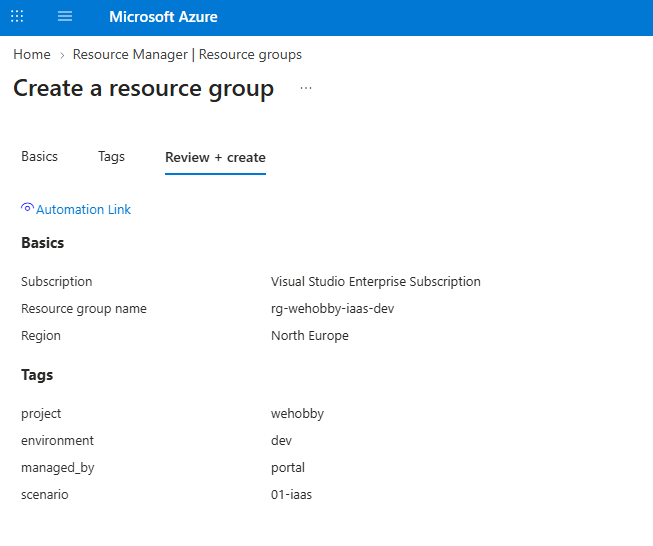
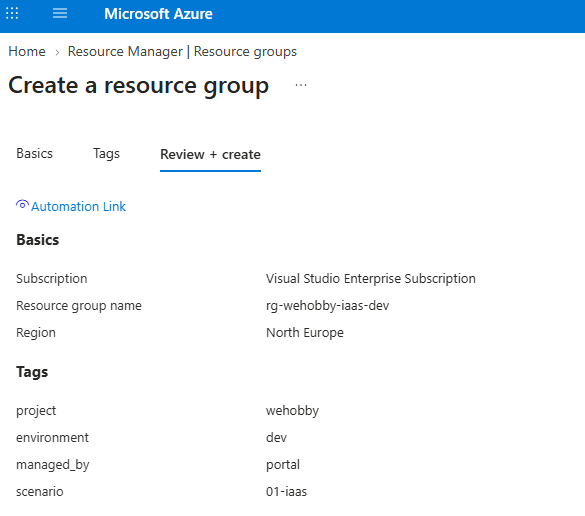
docs: record scenario 01 portal steps 1 to 5

diff --git a/docs/scenarios/01-iaas/portal-guide.md b/docs/scenarios/01-iaas/portal-guide.md
@@ -13,7 +13,7 @@ Step by step guide for building scenario 01 manually in the Azure portal. Settin
 2. **Basics**
    - Subscription: _your subscription_
    - Resource group: `rg-wehobby-iaas-dev`
-   - Region: West Europe
+   - Region: North Europe
 3. **Tags**
 
    | Name | Value |
@@ -34,21 +34,24 @@ Step by step guide for building scenario 01 manually in the Azure portal. Settin
 1. Open `rg-wehobby-iaas-dev` → **Cost Management** → **Budgets** → **Add**
 2. **Create a budget**
    - Name: `budget-wehobby-iaas-dev`
-   - Reset period: Monthly
+   - Reset period: Billing Month
    - Amount: _€_
 3. **Set alerts**
-   - Actual: 50%, 80%, 100%
+   - Actual: 50%, 80%
    - Forecasted: 100%
-   - Recipients: _your email (don't put it in the screenshot)_
+   - Recipients: _your email 
 4. **Create**
 
-<!-- ![Budget amount](images/02-budget-amount.png) -->
-<!-- ![Budget alerts](images/02-budget-alerts.png) -->
+![Creating Budget alert](images/creatingbudget.png)
 
 > **Good to know:** a budget only alerts, it never stops spending. Cost data can lag by several hours.
 
 > **My notes:**
->
+>As I am using a  Visual Studio subscription, it is important to use Billing Month instead of Monthly as the invoice period may be different.
+
+Documentation related:
+[Use cost alerts to monitor usage and spending](https://learn.microsoft.com/en-us/azure/cost-management-billing/costs/cost-mgt-alerts-monitor-usage-spending)
+[Tutorial: Create and manage budgets](https://learn.microsoft.com/en-us/azure/cost-management-billing/costs/tutorial-acm-create-budgets?tabs=psbudget)
 
 ---
 
@@ -58,22 +61,20 @@ Step by step guide for building scenario 01 manually in the Azure portal. Settin
 2. **Basics**
    - Resource group: `rg-wehobby-iaas-dev`
    - Name: `vnet-wehobby-iaas-dev`
-   - Region: West Europe
+   - Region: North Europe
 3. **Security**: leave Bastion, Firewall and DDoS Protection off (cost)
 4. **IP addresses**
    - Address space: `10.10.0.0/16`
    - Edit the default subnet:
      - Name: `snet-app`
      - Range: `10.10.1.0/24`
-     - Service endpoints: `Microsoft.Storage`
+     - Service endpoints: `Microsoft.Storage.Global`
 5. **Tags**: same four tags as step 1
 6. **Review + create** → **Create**
 
-<!-- ![VNet basics](images/03-vnet-basics.png) -->
-<!-- ![Subnet with service endpoint](images/03-vnet-subnet.png) -->
+![VNet basics](images/creatingvnet.png)
+![Subnet with service endpoint](images/addingserviceendpoint.png)
 
-> **My notes:**
->
 
 ---
 
@@ -82,8 +83,11 @@ Step by step guide for building scenario 01 manually in the Azure portal. Settin
 1. Search **Network security groups** → **Create**
    - Resource group: `rg-wehobby-iaas-dev`
    - Name: `nsg-wehobby-iaas-dev`
-   - Region: West Europe
+   - Region: North Europe
    - Tags: same four tags
+
+![Creating NSG](images/creatingnsg.png)
+
 2. Open the NSG → **Inbound security rules** → **Add**
 
    | Name | Source | Destination ports | Protocol | Action | Priority |
@@ -91,13 +95,14 @@ Step by step guide for building scenario 01 manually in the Azure portal. Settin
    | Allow-HTTP-HTTPS | Service Tag: Internet | 80, 443 | TCP | Allow | 100 |
    | Allow-SSH-MyIP | IP addresses: _my public IP_ | 22 | TCP | Allow | 110 |
 
+
+   ![Creating Inbound rule Allow HTTP](images/nsgallowhttp.png)
+
+   ![Creating Inbound rule Allow SSH](images/nsgallowssh.png)
+
 3. **Subnets** → **Associate** → `vnet-wehobby-iaas-dev` / `snet-app`
 
-<!-- ![Inbound rules](images/04-nsg-rules.png) -->
-<!-- ![Subnet association](images/04-nsg-subnet.png) -->
-
-> **My notes:**
->
+![Associating subnet](images/associatesubnet.png)
 
 ---
 
@@ -107,12 +112,12 @@ Step by step guide for building scenario 01 manually in the Azure portal. Settin
 2. **Basics**
    - Resource group: `rg-wehobby-iaas-dev`
    - Name: `stwehobbyiaasdev`
-   - Region: West Europe
+   - Region: North Europe
    - Performance: Standard
    - Redundancy: LRS
 3. **Advanced**
    - Allow enabling anonymous access on containers: off
-   - Enable storage account key access: _on / off (decision)_
+   - Enable storage account key access: on
    - Minimum TLS version: 1.2
    - Access tier: Hot
 4. **Networking**
@@ -121,16 +126,17 @@ Step by step guide for building scenario 01 manually in the Azure portal. Settin
    - Add your client IP address
 5. **Tags**: same four tags
 6. **Review + create** → **Create**
+
+![Storage Account basics](images/creatingsa.png)
+
 7. Open the account → **Containers** → **+ Container** → name `photos`, private access
 
-<!-- ![Storage basics](images/05-st-basics.png) -->
-<!-- ![Storage advanced](images/05-st-advanced.png) -->
-<!-- ![Storage networking](images/05-st-networking.png) -->
+![Creating container](images/creatingcontainer.png)
 
 > **Good to know:** if key access is disabled, you need a data role (e.g. Storage Blob Data Contributor) on your own account to browse blobs in the portal.
 
 > **My notes:**
->
+>  I did not enable hierarchical namespace. It's designed for analytics workloads: real directories with atomic rename and delete, and POSIX style ACLs per file and folder, used by Spark, Databricks, Synapse and so on. WeHobby just stores photos and reads and writes them through the Blob API.
 
 ---
 
